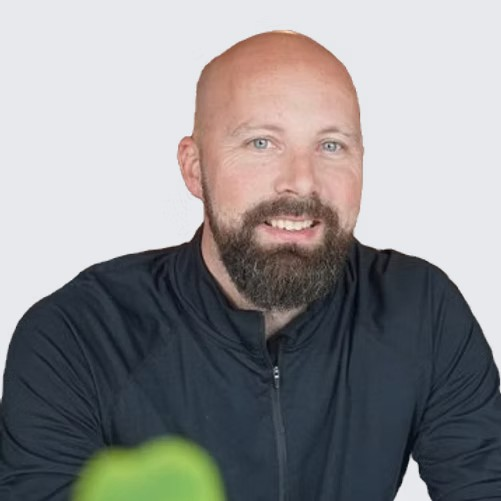
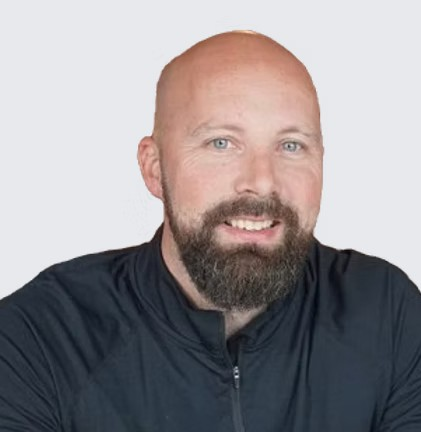
Beskåret portrett

diff --git a/index.html b/index.html
@@ -755,8 +755,8 @@
   <button class="bla neste" onclick="blaBilde(1)" aria-label="Neste bilde">›</button>
 </div>
 
-<script src="innhold.js?v=1791719535"></script>
-<script src="serie.js?v=1791719535"></script>
+<script src="innhold.js?v=1791719618"></script>
+<script src="serie.js?v=1791719618"></script>
 <script>
 const ANTALL_NYHETER_FORST = 6;
 
